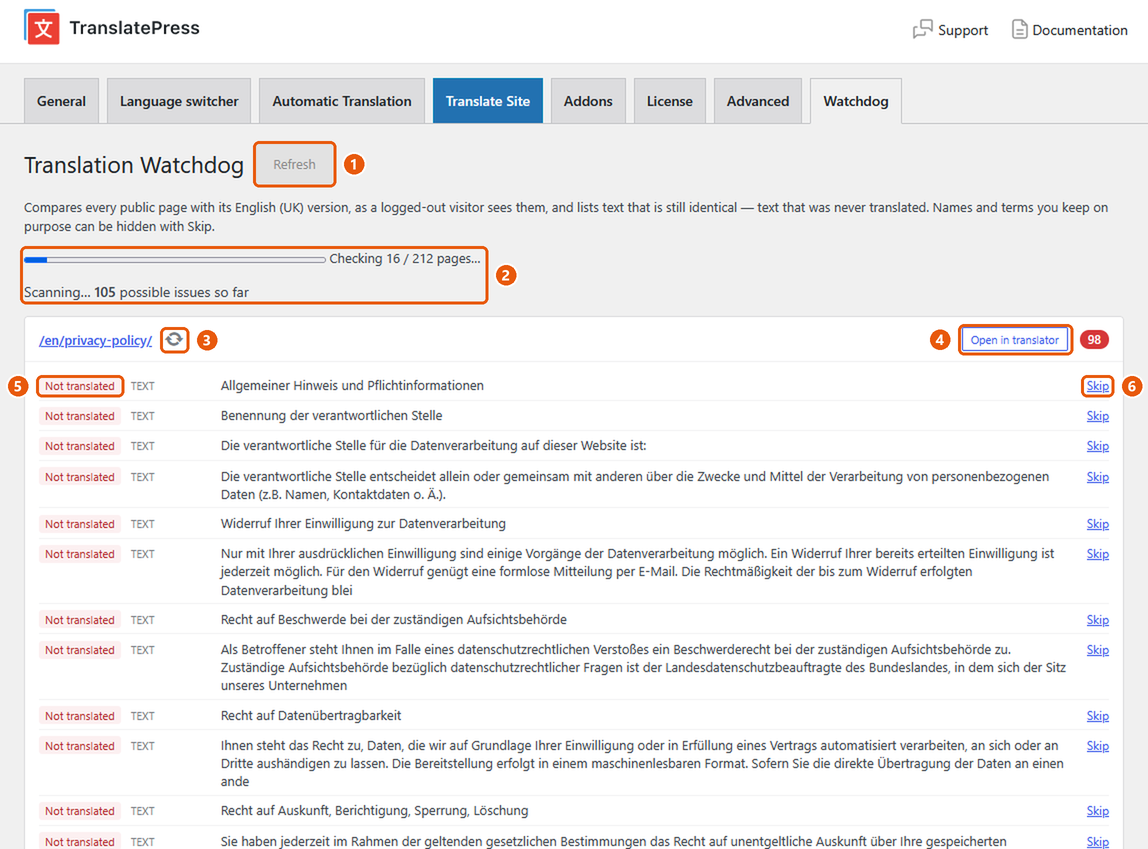
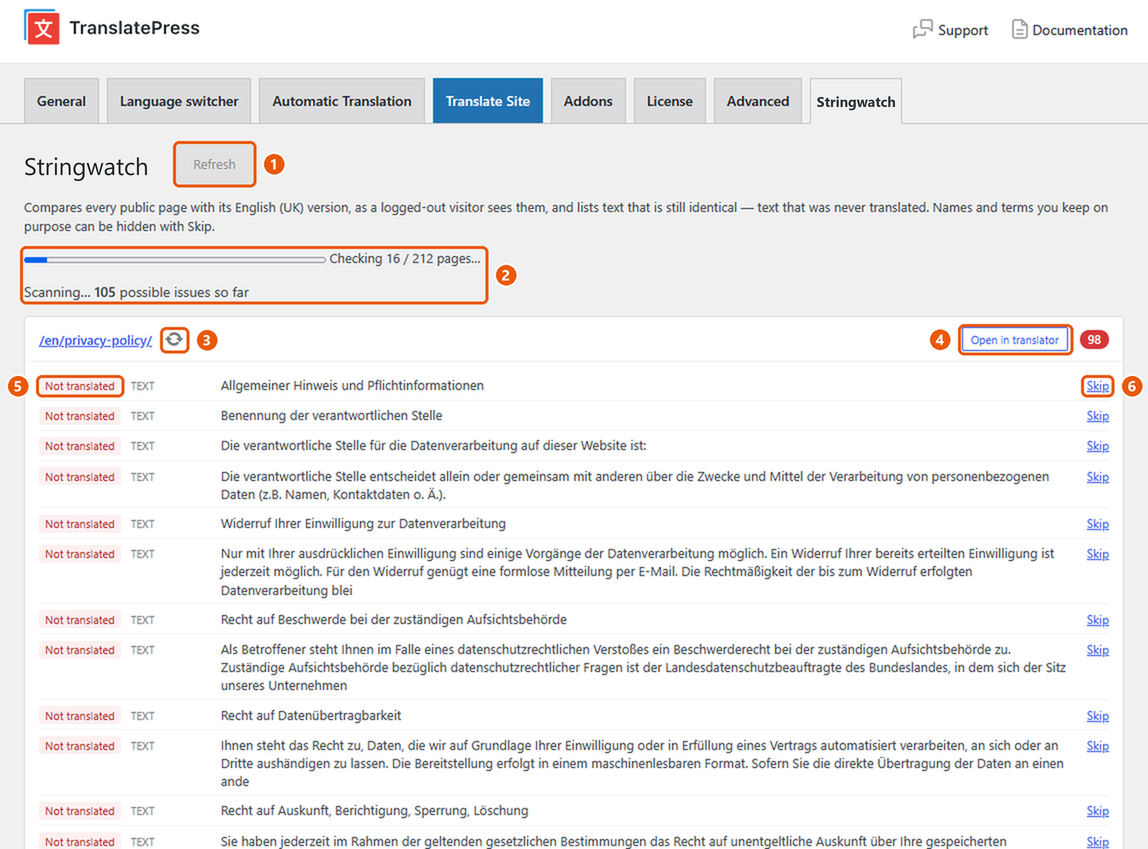
0.4.2: deploy releases to WordPress.org; screenshot shows the new name

Changed region(s): [[0.0, 0.1531, 0.3354, 0.245], [0.7012, 0.0919, 0.7927, 0.1531]]

diff --git a/stringwatch.php b/stringwatch.php
@@ -2,7 +2,7 @@
 /**
  * Plugin Name:       Stringwatch – Untranslated Text Finder for TranslatePress
  * Description:       Adds a Stringwatch tab to the TranslatePress settings: compares every translated page with its original and lists text that was never translated — for any language combination.
- * Version:           0.4.1
+ * Version:           0.4.2
  * Requires at least: 6.5
  * Requires PHP:      8.0
  * Requires Plugins:  translatepress-multilingual
@@ -16,7 +16,7 @@
 
 if (!defined('ABSPATH')) exit;
 
-const TRWATCH_VERSION    = '0.4.1';
+const TRWATCH_VERSION    = '0.4.2';
 const TRWATCH_FILE       = __FILE__;
 const TRWATCH_SLUG       = 'stringwatch';
 const TRWATCH_OPT_RESULT = 'trwatch_last_scan';

diff --git a/README.md b/README.md
@@ -62,9 +62,9 @@ WordPress 6.5+, PHP 8.0+, TranslatePress (free or paid).
 
 ## Installation
 
-Download the zip from the [latest release](../../releases/latest), then *Plugins → Add New → Upload Plugin*. Open *Settings → TranslatePress → Stringwatch*.
+Open *Settings → TranslatePress → Stringwatch*.
 
-The plugin is being submitted to the WordPress.org plugin directory. Once it is listed, install and update it from there (*Plugins → Add New*). This repository holds the source code and the release zips.
+Install and update it from the [WordPress.org plugin directory](https://wordpress.org/plugins/stringwatch/) (*Plugins → Add New*, search for "Stringwatch"). This repository holds the source code and the release zips.
 
 ## Filters
 

diff --git a/CHANGELOG.md b/CHANGELOG.md
@@ -1,5 +1,9 @@
 # Changelog
 
+## 0.4.2
+
+- First release on WordPress.org; tagged releases now deploy there automatically.
+
 ## 0.4.1
 
 - Author shown as "Blue River Growth", linked to https://bluerivergrowth.com/.
